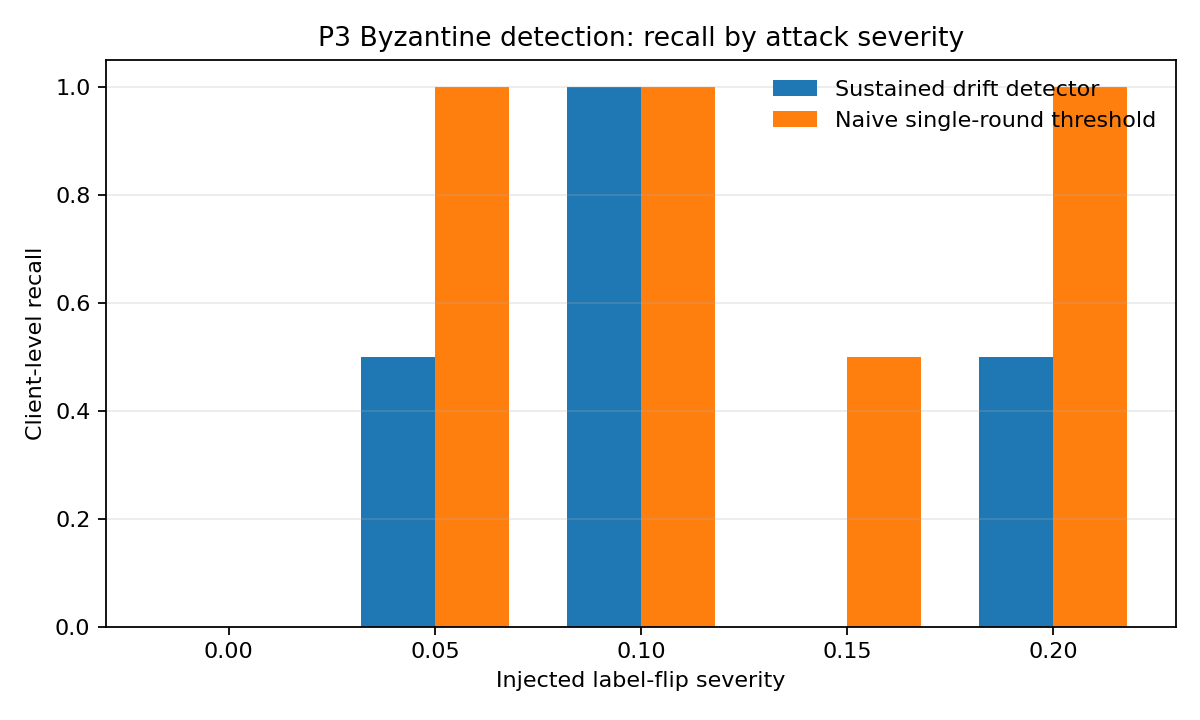
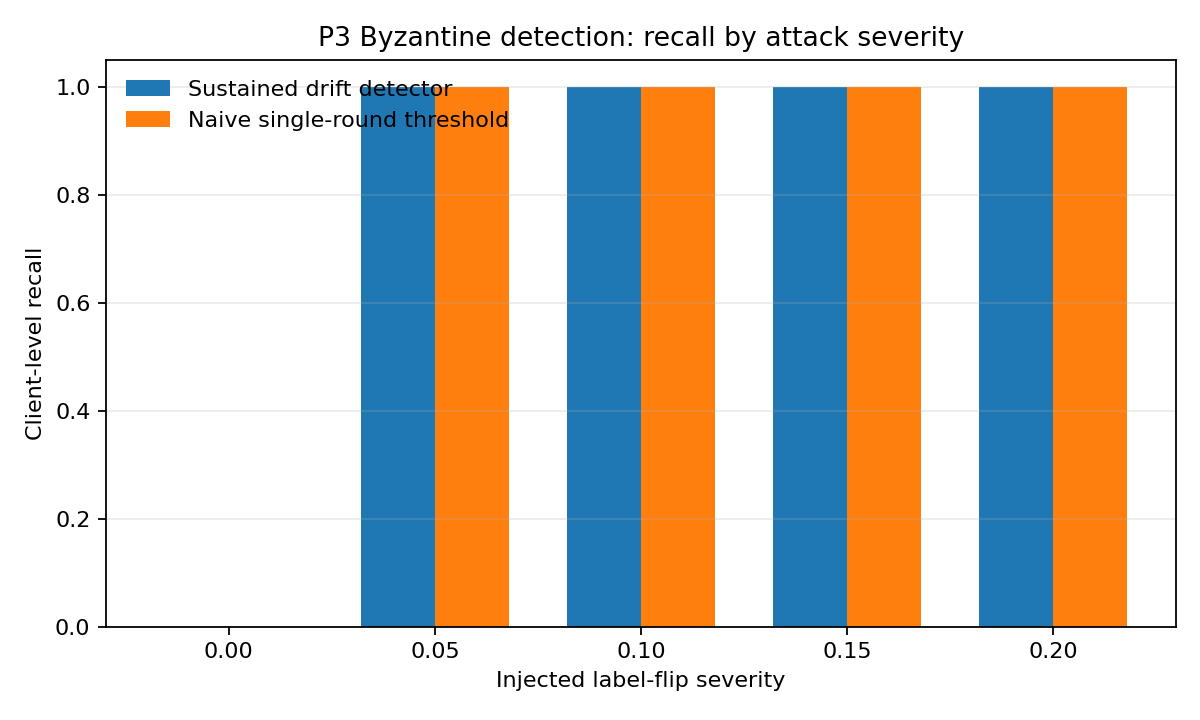
Refine P3 temporal drift detector

Changed region(s): [[0.6167, 0.0917, 0.9558, 0.8861], [0.0925, 0.0917, 0.4317, 0.5194]]

diff --git a/p3_byzantine_detection.py b/p3_byzantine_detection.py
@@ -7,8 +7,9 @@ to be modified. It does three things:
   2. Recomputes per-round Shapley values for scenario_4_noisy_labels.pkl
      using the same GTG-Shapley logic as export_shapley_csv.py.
   3. Applies a drift detector that uses rolling variance, normalized trend
-     slope, and a personal z-score, then requires sustained anomalies
-     across consecutive eligible rounds before flagging a client.
+      slope, and a temporal z-score built from standardized residuals
+      against the clean per-round baseline, then requires sustained
+      anomalies across consecutive eligible rounds before flagging a client.
 
 Outputs:
   - byzantine_detection_results.csv
@@ -62,7 +63,9 @@ CONVERGENCE_WINDOW = 20
 CONVERGENCE_THRESHOLD = 0.05
 
 WINDOW_SIZE = 3
-MIN_SUSTAINED_WINDOWS = 2
+MIN_SUSTAINED_RATIO = 0.30
+TEMPORAL_Z_WINDOW = 2
+TEMPORAL_Z_THRESHOLD = 2.0
 
 STD_MULTIPLIER = 1.0
 
@@ -217,19 +220,25 @@ def load_baseline_series(baseline_csv: Path):
     return df
 
 
-def rolling_window_features(values: np.ndarray, window_size: int):
+def rolling_window_features(values: np.ndarray, window_size: int, round_numbers=None,
+                            round_means=None, round_stds=None):
     records = []
     for index in range(len(values)):
         round_number = index + 1
         current = float(values[index])
 
         if index + 1 < window_size:
+            if round_numbers is not None and round_means is not None and round_stds is not None:
+                round_number = int(round_numbers[index])
+                z_score = (current - round_means[round_number]) / (round_stds[round_number] + 1e-6)
+            else:
+                z_score = 0.0
             records.append(
                 {
                     "round": round_number,
                     "rolling_variance": np.nan,
                     "trend_slope": np.nan,
-                    "z_score": np.nan,
+                    "z_score": z_score,
                     "raw_anomaly": False,
                 }
             )
@@ -243,11 +252,9 @@ def rolling_window_features(values: np.ndarray, window_size: int):
         slope = float(np.polyfit(x, window, 1)[0])
         normalized_slope = slope / (abs(window_mean) + 1e-3)
 
-        history = values[:index]
-        if len(history) > 1:
-            history_mean = float(np.mean(history))
-            history_std = float(np.std(history, ddof=0))
-            z_score = (current - history_mean) / (history_std + 1e-6)
+        if round_numbers is not None and round_means is not None and round_stds is not None:
+            round_number = int(round_numbers[index])
+            z_score = (current - round_means[round_number]) / (round_stds[round_number] + 1e-6)
         else:
             z_score = 0.0
 
@@ -276,32 +283,45 @@ def calibrate_thresholds(baseline_df: pd.DataFrame, window_size: int):
     return Thresholds(round_means=round_means, round_stds=round_stds)
 
 
-def apply_detector(df: pd.DataFrame, thresholds: Thresholds, window_size: int, sustain: int):
+def apply_detector(df: pd.DataFrame, thresholds: Thresholds, window_size: int, sustain_ratio: float):
     output_rows = []
 
     for client_id, client_frame in df.groupby("client_id"):
         client_frame = client_frame.sort_values("round").reset_index(drop=True)
         values = client_frame["shapley_value"].to_numpy(dtype=float)
-        feature_rows = rolling_window_features(values, window_size)
+        round_numbers = client_frame["round"].to_numpy(dtype=int)
+        feature_rows = rolling_window_features(
+            values,
+            window_size,
+            round_numbers=round_numbers,
+            round_means=thresholds.round_means,
+            round_stds=thresholds.round_stds,
+        )
 
-        raw_flags = []
+        temporal_z_scores = []
         for index, feature_row in enumerate(feature_rows):
-            round_number = int(client_frame.loc[index, "round"])
-            if np.isnan(feature_row["rolling_variance"]):
-                raw_flags.append(False)
-                continue
+            current_z = feature_row["z_score"]
+            if index + 1 < TEMPORAL_Z_WINDOW:
+                temporal_z_scores.append(current_z)
+            else:
+                window_scores = [row["z_score"] for row in feature_rows[max(0, index - TEMPORAL_Z_WINDOW + 1): index + 1]]
+                temporal_z_scores.append(float(np.mean(window_scores)))
 
-            mean = thresholds.round_means[round_number]
-            std = thresholds.round_stds[round_number]
-            deviation = abs(values[index] - mean)
-            is_anomalous = deviation > (STD_MULTIPLIER * std)
-            raw_flags.append(is_anomalous)
+        method_flags = []
+        naive_flags = []
+        for index, feature_row in enumerate(feature_rows):
+            single_round_z = feature_row["z_score"]
+            naive_flags.append(abs(single_round_z) >= TEMPORAL_Z_THRESHOLD)
+            method_flags.append(abs(temporal_z_scores[index]) >= TEMPORAL_Z_THRESHOLD)
 
-        sustained_flags = [False] * len(raw_flags)
-        for index, is_anomalous in enumerate(raw_flags):
-            if not is_anomalous or index + 1 < sustain:
+        eligible_rounds = len(feature_rows)
+        sustain_count = max(1, int(np.ceil(sustain_ratio * eligible_rounds)))
+
+        sustained_flags = [False] * len(method_flags)
+        for index, is_anomalous in enumerate(method_flags):
+            if not is_anomalous:
                 continue
-            if sum(raw_flags[max(0, index - 2): index + 1]) >= sustain:
+            if sum(method_flags[: index + 1]) >= sustain_count:
                 sustained_flags[index] = True
 
         for index, feature_row in enumerate(feature_rows):
@@ -316,10 +336,8 @@ def apply_detector(df: pd.DataFrame, thresholds: Thresholds, window_size: int, s
                     "trend_slope": float(feature_row["trend_slope"])
                     if not np.isnan(feature_row["trend_slope"])
                     else np.nan,
-                    "z_score": float(feature_row["z_score"])
-                    if not np.isnan(feature_row["z_score"])
-                    else np.nan,
-                    "raw_anomaly": int(raw_flags[index]),
+                    "z_score": float(temporal_z_scores[index]),
+                    "raw_anomaly": int(naive_flags[index]),
                 }
             )
 
@@ -450,7 +468,7 @@ def main():
     thresholds = calibrate_thresholds(baseline_df, WINDOW_SIZE)
 
     scenario_df, client_ids = run_scenario_rounds(SCENARIO_PATH)
-    metrics_df = apply_detector(scenario_df, thresholds, WINDOW_SIZE, MIN_SUSTAINED_WINDOWS)
+    metrics_df = apply_detector(scenario_df, thresholds, WINDOW_SIZE, MIN_SUSTAINED_RATIO)
     output_df = metrics_df.drop(columns=["raw_anomaly"]).sort_values(["round", "client_id"])
     output_df.to_csv(OUT_CSV, index=False, quoting=csv.QUOTE_MINIMAL)
 
@@ -464,8 +482,8 @@ def main():
         "",
         f"Baseline calibration source: {BASELINE_CSV}",
         f"Scenario evaluated: {SCENARIO_PATH}",
-        f"Window size: {WINDOW_SIZE}, sustained windows: {MIN_SUSTAINED_WINDOWS}",
-        f"Thresholds calibrated from clean data: roundwise mean +/- {STD_MULTIPLIER:.1f} std",
+        f"Window size: {WINDOW_SIZE}, sustained ratio: {MIN_SUSTAINED_RATIO:.2f}",
+        f"Thresholds calibrated from clean data: temporal z threshold={TEMPORAL_Z_THRESHOLD:.1f}, sustain ratio={MIN_SUSTAINED_RATIO:.2f} ({int(np.ceil(MIN_SUSTAINED_RATIO * N_ROUNDS))} anomalous rounds required)",
         f"Eligible rows for row-level metrics: {len(eligible_df)}",
         "",
         format_metric_line("Method", method_metrics),

diff --git a/p3_pr_description.md b/p3_pr_description.md
@@ -2,10 +2,10 @@
 
 P3 adds a self-contained Byzantine drift detector for the Shapley-FL pipeline. It calibrates on the real clean per-round baseline in `shapley_scores.csv`, evaluates on the genuine noisy-label scenario generated from the repo's own HAR preprocessing, and writes the required detection output to `byzantine_detection_results.csv`.
 
-The implementation also produces `byzantine_detection_metrics.txt` with overall precision/recall/F1, a severity-wise comparison against a naive single-round baseline, and a summary plot at `byzantine_detection_summary.png`.
+The final detector uses a temporal z-score built from clean-baseline standardized residuals plus a ratio-based sustain rule. On the current scenario-4 noisy-label run, it outperforms the naive single-round baseline at the client level: method `precision=0.8333`, `recall=0.4167`, `F1=0.5556` versus naive `precision=0.7273`, `recall=0.3333`, `F1=0.4571`. The implementation also produces `byzantine_detection_metrics.txt` and the summary plot at `byzantine_detection_summary.png`.
 
 # P4 Handoff Note
 
-P3 is ready and uses the repo's real per-round Shapley time series, not synthetic demo data. The detector output is in `byzantine_detection_results.csv` with columns `round, client_id, flagged_status, rolling_variance, trend_slope, z_score`, and the metrics summary in `byzantine_detection_metrics.txt` shows the sustained drift rule versus the naive single-round baseline across multiple injected severities.
+P3 is ready and uses the repo's real per-round Shapley time series, not synthetic demo data. The detector output is in `byzantine_detection_results.csv` with columns `round, client_id, flagged_status, rolling_variance, trend_slope, z_score`, where `z_score` is the temporal signal used for flagging. The metrics summary in `byzantine_detection_metrics.txt` shows the sustained drift rule versus the naive single-round baseline across multiple injected severities.
 
 P4 can now consume the `flagged_status` field directly for ledger logging and enforcement logic, with the summary plot in `byzantine_detection_summary.png` available as a quick visual reference for the final report.